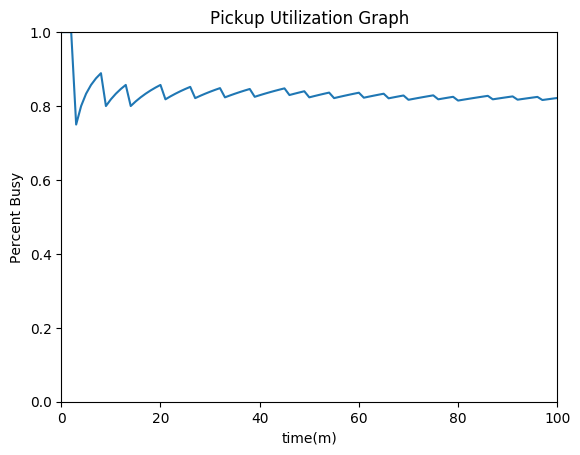
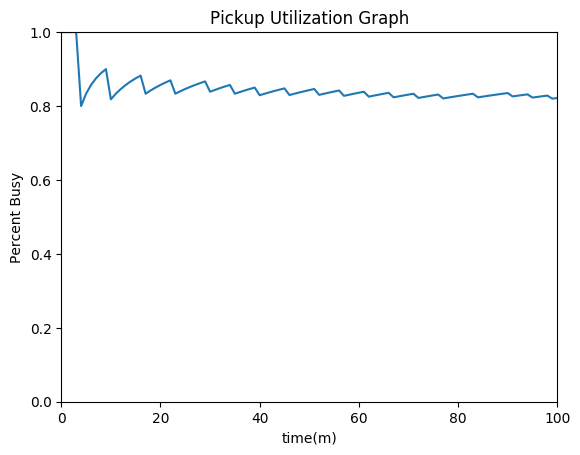
added states

diff --git a/Project/ProjectTwoIdea/src/Ironwolf.py b/Project/ProjectTwoIdea/src/Ironwolf.py
@@ -3,6 +3,7 @@ Jacob McKenna
 UAF CS680 Advanced Discrete Event Simulation 
 Class: Ironwolf
 '''
+
 import Vehicle
 import random as rand
 
@@ -25,26 +26,46 @@ class Ironwolf(Vehicle.Vehicle):
 		self.patch = road.getPatch(self.currentPatch)
 
 		if (self.currentWorkTime == 0 and not self.busy and self.patch.getState() == 'Marked'):
-			# print("Pickup work")
+
 			self.toggleBusy()
 			self.currentWorkTime = rand.randint(self.minTime, self.maxTime)
 			self.patchWorkTimes.append(self.currentWorkTime)
-			self.work()
+			self.state = 1
+
 
 	def work(self):
 		if (self.currentWorkTime != 0):
-			# print("iron wolf working")
-			self.currentWorkTime -= 1
-			self.utilTime += 1
-			return 1
+
+			if (self.state == self.states['Mobing']):
+				self.changeState('Grinding')
+				self.currentWorkTime -= 1
+				self.utilTime += 1
+				# Needs a call move function. 
 			
-		elif (self.currentWorkTime == 0 and self.busy): 
-			# print("Finished Serving, not busy anymore for %s." %(self.ID))
-			self.toggleBusy() # Not busy anymore.
+			elif(self.state == self.states['Grinding']):
+				self.currentWorkTime -= 1
+				self.utilTime += 1
+
+			self.appendState()
+
+		elif (self.currentWorkTime == 0 and self.busy and self.currentPatch == self.totalPatches): 
+
+			self.toggleBusy()
+
 			self.moveToNextPatch()
 			self.patch.incrementState()
-			return 0 
+			self.changeState('Parked')
+			self.appendState()
 			
+		elif (self.currentWorkTime == 0 and self.busy): 
+
+			self.toggleBusy()
+
+			self.moveToNextPatch()
+			self.patch.incrementState()
+			self.changeState('Mobing')
+			self.appendState()
+
+
 		else:
-			return 0
-	
+			self.appendState()

diff --git a/Project/ProjectTwoIdea/src/Grader.py b/Project/ProjectTwoIdea/src/Grader.py
@@ -29,22 +29,43 @@ class Grader(Vehicle.Vehicle):
 			self.toggleBusy()
 			self.currentWorkTime = rand.randint(self.minTime, self.maxTime)
 			self.patchWorkTimes.append(self.currentWorkTime)
-			self.work()
+			self.state = 1
 
 
 	def work(self):
 		if (self.currentWorkTime != 0):
-			# print("grader working")
-			self.currentWorkTime -= 1
-			self.utilTime += 1
-			return 1
+
+			if (self.state == self.states['Mobing']):
+				self.changeState('Grading')
+				self.currentWorkTime -= 1
+				self.utilTime += 1
+				# Needs a call move function. 
 			
-		elif (self.currentWorkTime == 0 and self.busy): 
-			# print("Finished Serving, not busy anymore for %s." %(self.ID))
-			self.toggleBusy() # Not busy anymore.
+			elif(self.state == self.states['Grading']):
+				self.currentWorkTime -= 1
+				self.utilTime += 1
+
+			self.appendState()
+
+		elif (self.currentWorkTime == 0 and self.busy and self.currentPatch == self.totalPatches): 
+
+			self.toggleBusy()
+
 			self.moveToNextPatch()
 			self.patch.incrementState()
-			return 0 
+			self.changeState('Parked')
+			self.appendState()
 			
+		elif (self.currentWorkTime == 0 and self.busy): 
+
+			self.toggleBusy()
+
+			self.moveToNextPatch()
+			self.patch.incrementState()
+			self.changeState('Mobing')
+			self.appendState()
+
+
 		else:
-			return 0
+			self.appendState()
+

diff --git a/Project/ProjectTwoIdea/src/Pickup.py b/Project/ProjectTwoIdea/src/Pickup.py
@@ -19,6 +19,7 @@ class Pickup(Vehicle.Vehicle):
 
 				}
 
+
 	def startWork(self, road):
 
 		self.road = road
@@ -38,29 +39,32 @@ class Pickup(Vehicle.Vehicle):
 
 			if (self.state == self.states['Mobing']):
 				self.changeState('Marking')
-				self.appendState()
 				self.currentWorkTime -= 1
 				self.utilTime += 1
 				# Needs a call move function. 
-
-
 			
 			elif(self.state == self.states['Marking']):
-				self.appendState()
 				self.currentWorkTime -= 1
 				self.utilTime += 1
 
+			self.appendState()
 
-			# # print("Pickup working")
-			# self.currentWorkTime -= 1
-			# self.utilTime += 1
-			
+		elif (self.currentWorkTime == 0 and self.busy and self.currentPatch == self.totalPatches): 
 
-			
-		elif (self.currentWorkTime == 0 and self.busy): 
 			self.toggleBusy()
+
 			self.moveToNextPatch()
 			self.patch.incrementState()
+			self.changeState('Parked')
+			self.appendState()
+			
+		elif (self.currentWorkTime == 0 and self.busy): 
+
+			self.toggleBusy()
+
+			self.moveToNextPatch()
+			self.patch.incrementState()
+			self.changeState('Mobing')
 			self.appendState()
 
 

diff --git a/Project/ProjectTwoIdea/src/Simulation.py b/Project/ProjectTwoIdea/src/Simulation.py
@@ -106,15 +106,15 @@ class Simulation(object):
 
 		########################
 
-		# self.pickup.genStateGraphs(simName,self.timePoints)
-		# self.grader.genStateGraphs(simName,self.timePoints)
-		# self.ironwolf.genStateGraphs(simName,self.timePoints)
+		self.pickup.genStateGraphs(simName,self.timePoints)
+		self.grader.genStateGraphs(simName,self.timePoints)
+		self.ironwolf.genStateGraphs(simName,self.timePoints)
 
-		# for i in self.numOilTrucks:
-		# 	i.genStateGraphs(simName,self.timePoints)
+		for i in self.numOilTrucks:
+			i.genStateGraphs(simName,self.timePoints)
 
-		# self.chipper.genStateGraphs(simName,self.timePoints)
-		# self.rtr.genStateGraphs(simName,self.timePoints)
+		self.chipper.genStateGraphs(simName,self.timePoints)
+		self.rtr.genStateGraphs(simName,self.timePoints)
 
 	def incrementUtil(self, simClock):
 

diff --git a/Project/ProjectTwoIdea/src/Vehicle.py b/Project/ProjectTwoIdea/src/Vehicle.py
@@ -69,12 +69,11 @@ class Vehicle(object):
 		self.utilGraphList.append(holder)
 
 
-
 	def genStateGraphs(self, simNumName, xpoints):
-		
+
 		plt.step(xpoints, self.stateGraphList)
 		# plt.xlim([0, math.ceil( len (self.stateGraphList / 1000) * 1000 )])
-		plt.xlim([0,300])
+		plt.xlim([0,100])
 		plt.title(self.name + ' Utilization Graph')
 		# l1 = plt.axvline(x=self.opens, color='b', label='PRE CLOSE (7.5 hrs)')
 		# l2 = plt.axvline(x=self.closes, color='r', label='CLOSED (8 hrs)')

diff --git a/Project/ProjectTwoIdea/src/Patch.py b/Project/ProjectTwoIdea/src/Patch.py
@@ -3,6 +3,7 @@ Jacob McKenna
 UAF CS680 Advanced Discrete Event Simulation 
 Class: Patch
 '''
+import math
 
 class Patch(object):
 
@@ -13,6 +14,7 @@ class Patch(object):
 		self.end = start + length
 		self.area = self.width * self.length
 		self.state = 0
+		self.requiredOil = math.floor(1.25 * self.area)
 		self.states = {
 					
 					0:'Damaged',
